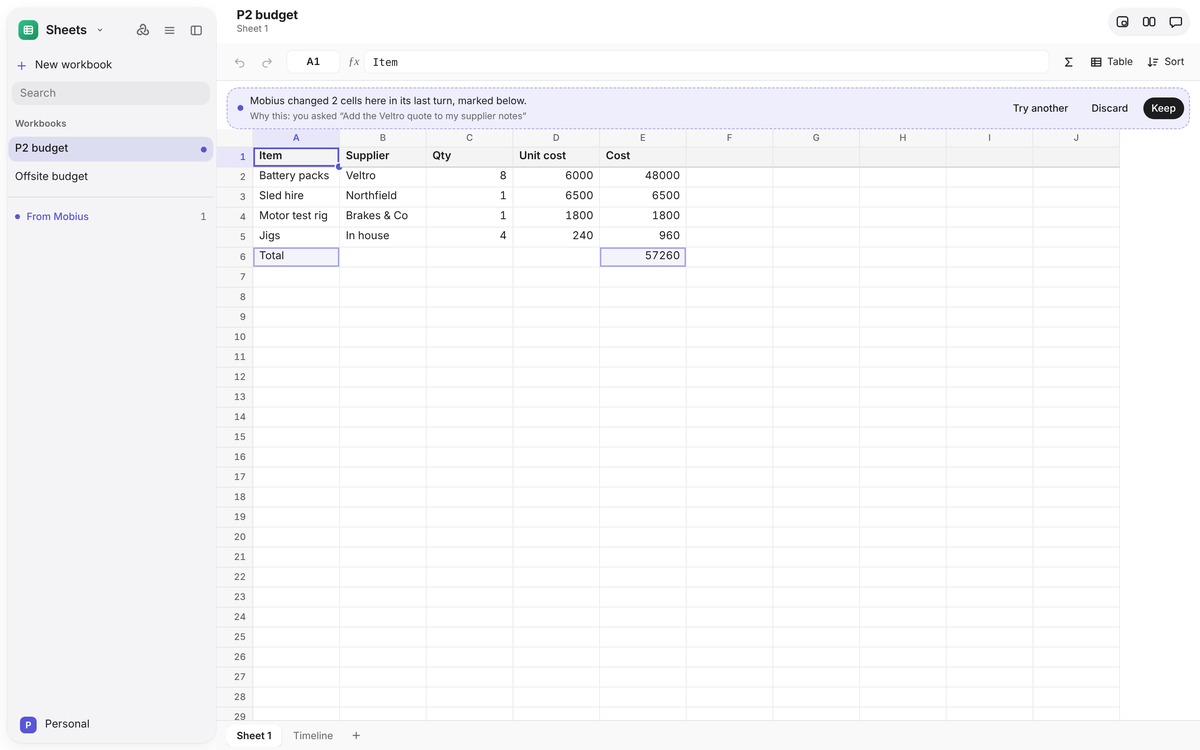
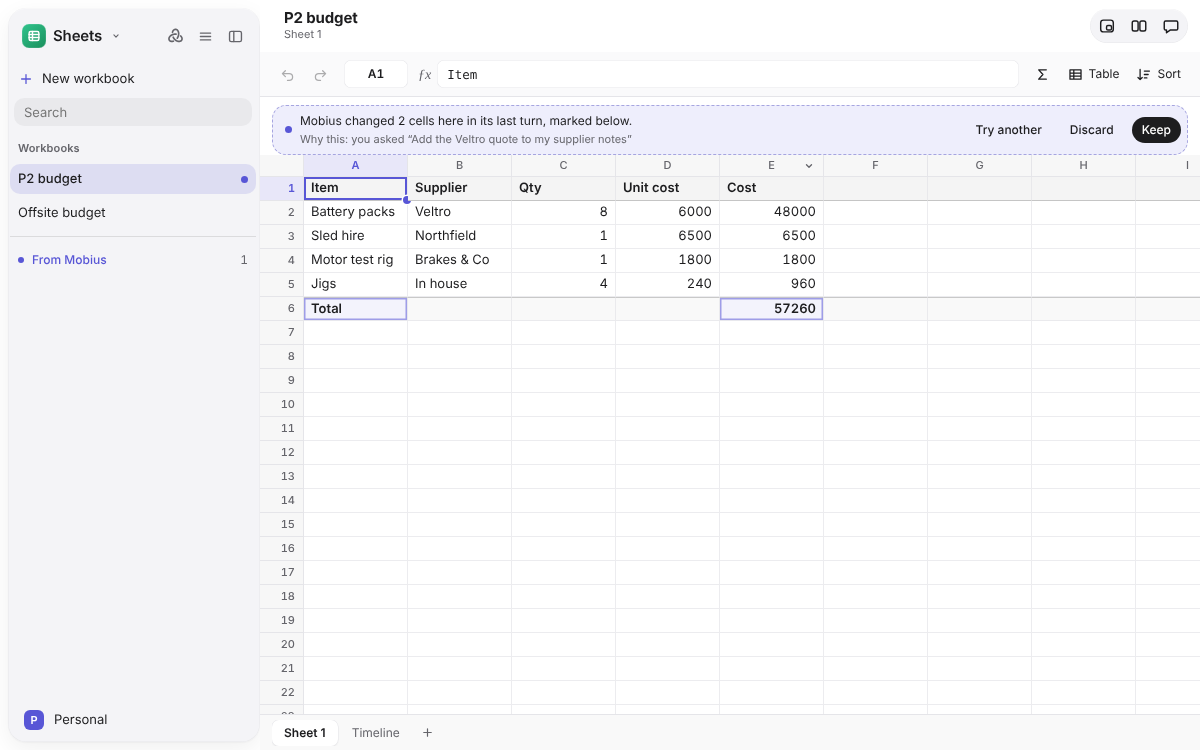
Sheets: column menu, total row, Find, no stray text selection (#40)
* Sheets: a menu on each column, the total row set apart, and no stray text selection

- Each column letter has a chevron menu: sort A to Z / Z to A, add a column
  before or after, fit to contents, delete. Sorting a whole column keeps the
  header and total rows in place.
- A last row that sums the rows above is bold with a rule above it.
- Shift-click and drag over cells no longer paint the cell text as a page
  selection.
- Picking a whole row or column keeps the focus on its first cell, so the
  view no longer jumps to the end.
- e2e, README screenshot and docs updated.

Claude-Session: https://claude.ai/code/session_01VRGwo5cg4dWJLUoVTjc5V1

* Sheets: Find in the sheet with Ctrl+F

A find bar under the toolbar tints every matching cell (what it shows, or
the words of its formula), moves the selection with Enter / Shift+Enter or
the arrows, and closes with Escape or Done.

Claude-Session: https://claude.ai/code/session_01VRGwo5cg4dWJLUoVTjc5V1

* Sheets: the cell comment e2e waits for the save that keeps it as a note

The comments file is first written while the comment is still open, so
reading it as soon as it exists could see state "open" (failed on PR #40's
Windows run).

Claude-Session: https://claude.ai/code/session_01VRGwo5cg4dWJLUoVTjc5V1

---------

diff --git a/apps/desktop/src/Sheets.tsx b/apps/desktop/src/Sheets.tsx
@@ -6,7 +6,7 @@ import { createPortal } from 'react-dom';
 import type { CellChange } from '@mobius/shared';
 import { onCommand } from './commands';
 import { KEPT_EVENT, keepTurn, keptTurns, turnId } from './ReviewStrip';
-import { cellName, changedCells, closeFormula, hasFooter, columnName, FUNCTIONS, fillSeries, inRange, isError, isNumeric, jump, numberIn, parseCsv, pasted, quickTarget, rangeName, rangeOf, rangeSize, refsIn, selectionStats, shiftFormula, sortedRows, statNumber, toTsv, typingFunction, wantsRef, type Range } from './sheets-view';
+import { cellName, changedCells, closeFormula, hasFooter, columnName, FUNCTIONS, fillSeries, findCells, inRange, isError, isNumeric, jump, numberIn, parseCsv, pasted, quickTarget, rangeName, rangeOf, rangeSize, refsIn, selectionStats, shiftFormula, sortedRows, statNumber, toTsv, typingFunction, wantsRef, type Range } from './sheets-view';
 import './sheets.css';
 import type { SheetsState } from './useSheets';
 import { ReviewActions, WhyThis } from './ReviewBar';
@@ -205,6 +205,11 @@ export function SheetGrid({ sheets, review }: { sheets: SheetsState; review?: { 
   const [pick, setPick] = useState<{ start: number; end: number; from: Pos } | null>(null);
   const [fillTo, setFillTo] = useState<Pos | null>(null);
   const [menu, setMenu] = useState<{ x: number; y: number } | null>(null);
+  // A column's own menu, from the chevron on its letter, as in Numbers.
+  const [colMenu, setColMenu] = useState<{ c: number; x: number; y: number } | null>(null);
+  // Find in the sheet (Ctrl+F): what is looked for, and which match is current.
+  const [finding, setFinding] = useState<{ query: string; at: number } | null>(null);
+  const findInput = useRef<HTMLInputElement>(null);
   const [suggest, setSuggest] = useState(0);
   const [, setTick] = useState(0);
   const drag = useRef<'select' | 'ref' | 'fill' | null>(null);
@@ -226,7 +231,7 @@ export function SheetGrid({ sheets, review }: { sheets: SheetsState; review?: { 
   const shown = (r: number, c: number) => data?.values[r]?.[c] ?? '';
   const sel = rangeOf(anchor, focus);
   const select = (a: Pos, b: Pos = a) => { setAnchor(a); setFocus(b); };
-  useEffect(() => { select({ r: 0, c: 0 }); setEdit(null); setPick(null); }, [data?.workbook, data?.sheet]);
+  useEffect(() => { select({ r: 0, c: 0 }); setEdit(null); setPick(null); setFinding((f) => (f ? { ...f, at: 0 } : f)); }, [data?.workbook, data?.sheet]);
   useEffect(() => { if (edit?.where === 'cell') cellInput.current?.focus(); }, [edit?.where, edit?.at.r, edit?.at.c]); // eslint-disable-line react-hooks/exhaustive-deps
   // After a reference or a function is put in, the caret goes after it.
   useLayoutEffect(() => {
@@ -235,7 +240,7 @@ export function SheetGrid({ sheets, review }: { sheets: SheetsState; review?: { 
     input?.setSelectionRange(caretTo.current, caretTo.current);
     caretTo.current = null;
   });
-  // The cell that moves stays in view.
+  // The cell that moves stays in view. Picking a whole row or column keeps the focus on its first cell, so the view stays put.
   useEffect(() => { grid.current?.querySelector<HTMLElement>(`[data-cell="${focus.r}:${focus.c}"]`)?.scrollIntoView({ block: 'nearest', inline: 'nearest' }); }, [focus]);
   useEffect(() => {
     const up = () => {
@@ -302,6 +307,8 @@ export function SheetGrid({ sheets, review }: { sheets: SheetsState; review?: { 
   const width = Math.min(52, Math.max(10, used.cols + 3, focus.c + 2, fillTo ? fillTo.c + 2 : 0));
   const height = Math.max(40, used.rows + 20, focus.r + 10, fillTo ? fillTo.r + 5 : 0);
   const headerOn = header ?? looksLikeHeader(data.values);
+  // A last row that adds up the rows above reads as the table's total, set apart as in Numbers.
+  const footerAt = hasFooter(data.cells) ? used.rows - 1 : -1;
   // A column the person has not sized fits its words, so names and labels are not cut short.
   const fitted = fittedWidths(data.values, headerOn);
   const colWidth = (c: number) => widths[c] ?? fitted[c] ?? COL_W;
@@ -481,7 +488,9 @@ export function SheetGrid({ sheets, review }: { sheets: SheetsState; review?: { 
     const r0 = headerOn ? 1 : 0;
     const r1 = Math.max(r0, used.rows - (hasFooter(data.cells) ? 2 : 1));
     // A block of rows picked sorts just those; otherwise every row under the header.
-    const rows = rangeSize(sel) > 1 && sel.r1 > sel.r0 ? { r0: Math.max(sel.r0, r0), r1: sel.r1 } : { r0, r1 };
+    // A whole column picked (from its letter) sorts every row, keeping the header and the total row where they are.
+    const block = rangeSize(sel) > 1 && sel.r1 > sel.r0 && !(sel.r0 <= r0 && sel.r1 >= r1);
+    const rows = block ? { r0: Math.max(sel.r0, r0), r1: Math.min(sel.r1, r1) } : { r0, r1 };
     void apply(sortedRows(data.cells, data.values, rows.r0, rows.r1, col, ascending));
   };
   const quick = (fn: string) => {
@@ -515,6 +524,21 @@ export function SheetGrid({ sheets, review }: { sheets: SheetsState; review?: { 
     window.addEventListener('pointerup', up);
   };
 
+  // ---------- Find ----------
+  const matches = finding ? findCells(data.cells, data.values, finding.query) : [];
+  const matchKeys = new Set(matches.map((m) => `${m.r}:${m.c}`));
+  const openFind = () => {
+    setFinding((f) => f ?? { query: '', at: 0 });
+    requestAnimationFrame(() => { findInput.current?.focus(); findInput.current?.select(); });
+  };
+  const goMatch = (at: number) => {
+    if (!finding || matches.length === 0) return;
+    const i = ((at % matches.length) + matches.length) % matches.length;
+    setFinding({ ...finding, at: i });
+    select(matches[i]!);
+  };
+  const closeFind = () => { setFinding(null); grid.current?.focus(); };
+
   const onGridKey = (e: KeyboardEvent<HTMLDivElement>) => {
     const mod = e.ctrlKey || e.metaKey;
     // Keys typed before the cell's editor has focus still go into it.
@@ -523,6 +547,7 @@ export function SheetGrid({ sheets, review }: { sheets: SheetsState; review?: { 
       return;
     }
     const k = e.key;
+    if (mod && !e.altKey && !e.shiftKey && k.toLowerCase() === 'f') { openFind(); e.preventDefault(); e.stopPropagation(); return; }
     const arrows: Record<string, [number, number]> = { ArrowUp: [-1, 0], ArrowDown: [1, 0], ArrowLeft: [0, -1], ArrowRight: [0, 1] };
     const go = (p: Pos) => { const q = { r: Math.max(0, Math.min(height + 200, p.r)), c: Math.max(0, Math.min(51, p.c)) }; if (e.shiftKey) setFocus(q); else select(q); };
     if (arrows[k]) {
@@ -603,6 +628,35 @@ export function SheetGrid({ sheets, review }: { sheets: SheetsState; review?: { 
           <ToolMenu label="Sort" title="Sort the rows" button={<><Icon d={ICONS.sort} /><span>Sort</span></>}>{sortMenu}</ToolMenu>
         </span>
       </div>
+      {finding && (
+        <div className="sheet-find" role="search" aria-label="Find in sheet">
+          <svg className="sheet-find-icon" viewBox="0 0 20 20" aria-hidden="true"><path d="M8.5 3.5a5 5 0 1 1 0 10 5 5 0 0 1 0-10zM12.2 12.2 16.5 16.5" /></svg>
+          <input
+            ref={findInput}
+            type="search"
+            aria-label="Find in sheet"
+            placeholder="Find in sheet"
+            value={finding.query}
+            spellCheck={false}
+            onChange={(e) => {
+              const query = e.target.value;
+              const found = findCells(data.cells, data.values, query);
+              setFinding({ query, at: 0 });
+              if (found[0]) select(found[0]);
+            }}
+            onKeyDown={(e) => {
+              if (e.key === 'Enter') { goMatch(finding.at + (e.shiftKey ? -1 : 1)); e.preventDefault(); }
+              else if (e.key === 'Escape') { closeFind(); e.preventDefault(); }
+            }}
+          />
+          <span className="sheet-find-count" role="status" aria-live="polite">{finding.query.trim() ? (matches.length ? `${Math.min(finding.at, matches.length - 1) + 1} of ${matches.length}` : 'Not found') : ''}</span>
+          <span className="sheet-tool-group">
+            <button type="button" className="sheet-tool" aria-label="Previous match" title="Previous (Shift+Enter)" disabled={matches.length === 0} onMouseDown={keep} onClick={() => goMatch(finding.at - 1)}><Icon d="M12.5 5 7.5 10l5 5" /></button>
+            <button type="button" className="sheet-tool" aria-label="Next match" title="Next (Enter)" disabled={matches.length === 0} onMouseDown={keep} onClick={() => goMatch(finding.at + 1)}><Icon d="M7.5 5l5 5-5 5" /></button>
+          </span>
+          <button type="button" className="btn sheet-find-done" onClick={closeFind}>Done</button>
+        </div>
+      )}
       {showReview && (
         <div className="note-review sheet-review" role="status">
           <span className="review-dot" aria-hidden="true" />
@@ -641,9 +695,27 @@ export function SheetGrid({ sheets, review }: { sheets: SheetsState; review?: { 
                   scope="col"
                   style={{ width: colWidth(c) }}
                   data-on={(c >= sel.c0 && c <= sel.c1) || undefined}
-                  onMouseDown={(e) => { if (e.button !== 0) return; e.preventDefault(); grid.current?.focus(); const end = Math.max(used.rows - 1, height - 1); if (e.shiftKey) { setAnchor({ r: 0, c: anchor.c }); setFocus({ r: end, c }); } else select({ r: 0, c }, { r: end, c }); }}
+                  data-menu={colMenu?.c === c || undefined}
+                  onMouseDown={(e) => { if (e.button !== 0) return; e.preventDefault(); grid.current?.focus(); const end = Math.max(used.rows - 1, height - 1); if (e.shiftKey) { setAnchor({ r: end, c: anchor.c }); setFocus({ r: 0, c }); } else select({ r: end, c }, { r: 0, c }); }}
                 >
                   {columnName(c)}
+                  <button
+                    type="button"
+                    className="sheet-col-more"
+                    aria-label={`Column ${columnName(c)} options`}
+                    aria-haspopup="menu"
+                    aria-expanded={colMenu?.c === c}
+                    tabIndex={-1}
+                    onMouseDown={(e) => { e.preventDefault(); e.stopPropagation(); }}
+                    onClick={(e) => {
+                      grid.current?.focus();
+                      select({ r: Math.max(used.rows - 1, height - 1), c }, { r: 0, c });
+                      const r = e.currentTarget.getBoundingClientRect();
+                      setColMenu({ c, x: r.left, y: r.bottom + 4 });
+                    }}
+                  >
+                    <svg viewBox="0 0 12 12" aria-hidden="true"><path d="M3 4.5 6 7.5l3-3" /></svg>
+                  </button>
                   <span className="sheet-col-resize" role="separator" aria-orientation="vertical" aria-label={`Width of column ${columnName(c)}`} onPointerDown={(e) => resizeFrom(c, e)} onDoubleClick={() => fitColumn(c)} onMouseDown={(e) => e.stopPropagation()} />
                 </th>
               ))}
@@ -651,11 +723,11 @@ export function SheetGrid({ sheets, review }: { sheets: SheetsState; review?: { 
           </thead>
           <tbody>
             {Array.from({ length: height }, (_, r) => (
-              <tr key={r} className={headerOn && r === 0 ? 'sheet-header-row' : undefined}>
+              <tr key={r} className={headerOn && r === 0 ? 'sheet-header-row' : r === footerAt && r > 0 ? 'sheet-footer-row' : undefined}>
                 <th
                   scope="row"
                   data-on={(r >= sel.r0 && r <= sel.r1) || undefined}
-                  onMouseDown={(e) => { if (e.button !== 0) return; e.preventDefault(); grid.current?.focus(); const end = Math.max(width - 1, used.cols - 1); if (e.shiftKey) { setAnchor({ r: anchor.r, c: 0 }); setFocus({ r, c: end }); } else select({ r, c: 0 }, { r, c: end }); }}
+                  onMouseDown={(e) => { if (e.button !== 0) return; e.preventDefault(); grid.current?.focus(); const end = Math.max(width - 1, used.cols - 1); if (e.shiftKey) { setAnchor({ r: anchor.r, c: end }); setFocus({ r, c: 0 }); } else select({ r, c: end }, { r, c: 0 }); }}
                 >{r + 1}</th>
                 {Array.from({ length: width }, (_, c) => {
                   const here = edit && edit.at.r === r && edit.at.c === c && edit.where === 'cell';
@@ -686,6 +758,7 @@ export function SheetGrid({ sheets, review }: { sheets: SheetsState; review?: { 
                       data-formula={raw(r, c).startsWith('=') || undefined}
                       data-changed={showReview && changed.has(key) ? true : undefined}
                       data-fresh={sheets.fresh.has(key) || undefined}
+                      data-match={matchKeys.has(key) || undefined}
                       title={raw(r, c).startsWith('=') ? raw(r, c) : undefined}
                       style={shadows.length ? { boxShadow: shadows.join(', ') } : undefined}
                       onMouseDown={(e) => {
@@ -746,6 +819,22 @@ export function SheetGrid({ sheets, review }: { sheets: SheetsState; review?: { 
             {tableMenu(() => setMenu(null))}
             <Sep />
             {sortMenu(() => setMenu(null))}
+          </div>
+        </>,
+        document.body,
+      )}
+      {colMenu && createPortal(
+        <>
+          <div className="sheet-scrim" onMouseDown={() => setColMenu(null)} onContextMenu={(e) => { e.preventDefault(); setColMenu(null); }} />
+          <div className="sheet-menu" role="menu" aria-label={`Column ${columnName(colMenu.c)}`} style={{ top: Math.min(colMenu.y, window.innerHeight - 260), left: Math.max(8, Math.min(colMenu.x, window.innerWidth - 230)), minWidth: 220 }} onKeyDown={(e) => { if (e.key === 'Escape') { setColMenu(null); grid.current?.focus(); } }}>
+            <Item onPick={() => { const c = colMenu.c; setColMenu(null); sortBy(c, true); }}>Sort A to Z</Item>
+            <Item onPick={() => { const c = colMenu.c; setColMenu(null); sortBy(c, false); }}>Sort Z to A</Item>
+            <Sep />
+            <Item onPick={() => { const c = colMenu.c; setColMenu(null); void shiftAt('column', c, true); }}>Add column before</Item>
+            <Item onPick={() => { const c = colMenu.c; setColMenu(null); void shiftAt('column', c + 1, true); }}>Add column after</Item>
+            <Item onPick={() => { const c = colMenu.c; setColMenu(null); fitColumn(c); }}>Fit to contents</Item>
+            <Sep />
+            <Item danger onPick={() => { const c = colMenu.c; setColMenu(null); void shiftAt('column', c, false); }}>Delete column</Item>
           </div>
         </>,
         document.body,

diff --git a/apps/desktop/src/sheets.css b/apps/desktop/src/sheets.css
@@ -26,11 +26,18 @@
 .sheet-page .sheet-table tbody th { z-index: 2; cursor: default; }
 .sheet-page .sheet-table th[data-on] { background: color-mix(in srgb, var(--accent) 14%, var(--bg)); color: var(--accent); font-weight: 600; }
 .sheet-corner { cursor: default; }
+.sheet-col-more { position: absolute; top: 3px; right: 6px; width: 16px; height: 16px; display: grid; place-items: center; padding: 0; border: 0; border-radius: 4px; background: transparent; color: inherit; opacity: 0; cursor: default; transition: opacity var(--dur-fast) var(--ease); }
+.sheet-col-more svg { width: 10px; height: 10px; fill: none; stroke: currentColor; stroke-width: 1.6; stroke-linecap: round; stroke-linejoin: round; }
+.sheet-page .sheet-table thead th:hover .sheet-col-more, .sheet-col-more:focus-visible, .sheet-page .sheet-table thead th[data-menu] .sheet-col-more { opacity: 1; }
+.sheet-col-more:hover, .sheet-page .sheet-table thead th[data-menu] .sheet-col-more { background: color-mix(in srgb, currentColor 16%, transparent); }
 .sheet-col-resize { position: absolute; top: 0; right: -3px; bottom: 0; width: 7px; cursor: col-resize; z-index: 1; }
 .sheet-col-resize:hover { background: linear-gradient(to right, transparent 3px, var(--accent) 3px, var(--accent) 4px, transparent 4px); }
 .sheet-page .sheet-table td { max-width: none; height: 24px; padding: 0 7px; border-right: 0.5px solid color-mix(in srgb, var(--line) 75%, transparent); border-bottom: 0.5px solid color-mix(in srgb, var(--line) 75%, transparent); outline: none; overflow: visible; text-overflow: clip; }
 .sheet-page .sheet-table td { overflow: hidden; text-overflow: ellipsis; }
 .sheet-page .sheet-table td[aria-selected="true"] { outline: none; }
+/* Picking cells selects cells, not the words in them: dragging or Shift-clicking never paints page text. */
+.sheet-page .sheet-table td { user-select: none; -webkit-user-select: none; }
+.sheet-page .sheet-cell-input { user-select: text; -webkit-user-select: text; }
 .sheet-page .sheet-table td[data-in] { background: color-mix(in srgb, var(--accent) 11%, var(--bg)); }
 .sheet-page .sheet-table td[data-focus] { z-index: 1; }
 .sheet-page .sheet-table td[data-formula]:not([data-error]) { color: var(--ink); }
@@ -53,6 +60,21 @@
 .sheet-page .sheet-header-row td { background: color-mix(in srgb, var(--ink) 5%, var(--bg)); font-weight: 600; border-bottom: 1px solid color-mix(in srgb, var(--ink) 22%, transparent); }
 .sheet-page .sheet-header-row td[data-in] { background: color-mix(in srgb, var(--accent) 16%, var(--bg)); }
 .sheet-page .sheet-table .sheet-header-row th { z-index: 3; }
+
+/* A total row: bold, with a rule above it, as Numbers sets a footer row apart. */
+.sheet-page .sheet-footer-row td { font-weight: 600; border-top: 1px solid color-mix(in srgb, var(--ink) 22%, transparent); background: color-mix(in srgb, var(--ink) 2.5%, var(--bg)); }
+.sheet-page .sheet-footer-row td[data-in] { background: color-mix(in srgb, var(--accent) 14%, var(--bg)); }
+
+/* ---------- Find ---------- */
+.sheet-find { display: flex; align-items: center; gap: 8px; padding: 6px var(--sp-3); border-bottom: 0.5px solid var(--line); background: color-mix(in srgb, var(--ink) 2%, var(--bg)); animation: sheet-pop var(--dur-fast) var(--ease); }
+.sheet-find-icon { width: 15px; height: 15px; flex: none; fill: none; stroke: var(--muted); stroke-width: 1.6; stroke-linecap: round; }
+.sheet-find input { flex: 0 1 320px; min-width: 120px; height: 26px; padding: 0 9px; border: 0; border-radius: 7px; background: var(--bg); box-shadow: inset 0 0 0 0.5px var(--line); color: var(--ink); font: inherit; font-size: var(--fs-sm); outline: none; }
+.sheet-find input:focus { box-shadow: inset 0 0 0 1px var(--accent), 0 0 0 3px color-mix(in srgb, var(--accent) 22%, transparent); }
+.sheet-find-count { min-width: 64px; color: var(--muted); font-size: var(--fs-sm); font-variant-numeric: tabular-nums; white-space: nowrap; }
+.sheet-find-done { margin-left: auto; height: 26px; padding: 0 12px; }
+/* Cells that match what is looked for are tinted yellow, as a find highlights words on a page. */
+.sheet-page .sheet-table td[data-match] { background: color-mix(in srgb, #ffd60a 30%, var(--bg)); }
+.sheet-page .sheet-table td[data-match][data-focus] { background: color-mix(in srgb, #ffd60a 55%, var(--bg)); }
 
 /* ---------- Menus and the function list ---------- */
 .sheet-scrim { position: fixed; inset: 0; z-index: 900; }
@@ -98,6 +120,6 @@
 .sheet-empty-icon svg { width: 26px; height: 26px; fill: none; stroke: currentColor; stroke-width: 1.5; }
 
 @media print {
-  .sheet-toolbar, .sheet-foot, .sheet-fill { display: none; }
+  .sheet-toolbar, .sheet-find, .sheet-foot, .sheet-fill { display: none; }
   .sheet-page .sheet-scroll { overflow: visible; }
 }

diff --git a/apps/desktop/e2e/sheets.spec.ts b/apps/desktop/e2e/sheets.spec.ts
@@ -154,5 +154,29 @@ test('pick a block, fill it down, undo, sort from the menu, and build a formula 
   await expect(cell('A5')).toHaveText('Total');
   await expect(cell('D5')).toHaveText('5420');
   await expect.poll(() => fs.readFileSync(file('Budget'), 'utf8')).toBe('Item,Qty,Unit,Total\nLunch,=People!B1,40,=B2*C2\nTerrace venue,1,620,=B3*C3\nHotel,14,320,=B4*C4,"=ROUND(D4/14,0)"\nTotal,,,=SUM(D2:D4)\n');
+
+  // Sorted again from column B's own menu, largest first: the whole column picked still leaves the header and total row put.
+  await shell().getByRole('columnheader', { name: /^B/ }).hover();
+  await shell().getByRole('button', { name: 'Column B options' }).click();
+  await shell().getByRole('menu', { name: 'Column B' }).getByRole('menuitem', { name: 'Sort Z to A' }).click();
+  await expect(cell('A2')).toHaveText('Hotel');
+  await expect(cell('A4')).toHaveText('Terrace venue');
+  await expect(cell('A5')).toHaveText('Total');
+  await expect(shell().getByLabel('Selected cell')).toHaveText(/^B1:B\d+$/);
+  // The total row reads as one, set apart from the rows it adds up.
+  await expect(shell().locator('tr.sheet-footer-row')).toContainText('Total');
+
+  // Ctrl+F finds cells by what they show, moving the selection from match to match; Escape closes it.
+  await cell('A2').click();
+  await shell().keyboard.press('Control+f');
+  await shell().getByRole('searchbox', { name: 'Find in sheet' }).fill('e');
+  await expect(shell().getByRole('search', { name: 'Find in sheet' })).toContainText(/1 of \d+/);
+  const first = await shell().getByLabel('Selected cell').textContent();
+  await shell().keyboard.press('Enter');
+  await expect(shell().getByLabel('Selected cell')).not.toHaveText(first ?? '');
+  await shell().getByRole('searchbox', { name: 'Find in sheet' }).fill('Terrace');
+  await expect(shell().getByLabel('Selected cell')).toHaveText('A4');
+  await shell().keyboard.press('Escape');
+  await expect(shell().getByRole('search', { name: 'Find in sheet' })).toHaveCount(0);
   await expect(cell('A1')).toHaveText('Item');
 });

diff --git a/apps/desktop/src/sheets-view.ts b/apps/desktop/src/sheets-view.ts
@@ -306,3 +306,23 @@ export function hasFooter(cells: readonly (readonly string[])[]): boolean {
   const last = cells[cells.length - 1] ?? [];
   return cells.length > 2 && last.some((t) => t.startsWith('=') && /[A-Za-z]+\d+:[A-Za-z]+\d+/.test(t));
 }
+
+/**
+ * Every cell that holds the words looked for, row by row as a person reads: what the cell shows, or the formula behind
+ * it, matched without regard to case.
+ */
+export function findCells(cells: readonly (readonly string[])[], values: readonly (readonly string[])[], query: string): { r: number; c: number }[] {
+  const q = query.trim().toLowerCase();
+  if (!q) return [];
+  const out: { r: number; c: number }[] = [];
+  const rows = Math.max(cells.length, values.length);
+  for (let r = 0; r < rows; r++) {
+    const cols = Math.max(cells[r]?.length ?? 0, values[r]?.length ?? 0);
+    for (let c = 0; c < cols; c++) {
+      const shown = (values[r]?.[c] ?? '').toLowerCase();
+      const raw = (cells[r]?.[c] ?? '').toLowerCase();
+      if (shown.includes(q) || (raw.startsWith('=') && raw.includes(q))) out.push({ r, c });
+    }
+  }
+  return out;
+}

diff --git a/apps/desktop/src/sheets-find.test.ts b/apps/desktop/src/sheets-find.test.ts
@@ -1,0 +1,15 @@
+import { describe, expect, it } from 'vitest';
+import { findCells } from './sheets-view';
+
+describe('finding in a sheet', () => {
+  const cells = [['Item', 'Cost'], ['Battery packs', '=B3*2'], ['Sled hire', '6500'], ['Total', '=SUM(B2:B3)']];
+  const values = [['Item', 'Cost'], ['Battery packs', '13000'], ['Sled hire', '6500'], ['Total', '19500']];
+  it('finds what cells show, in reading order, whatever the case', () => {
+    expect(findCells(cells, values, 'S')).toEqual([{ r: 0, c: 1 }, { r: 1, c: 0 }, { r: 2, c: 0 }, { r: 3, c: 1 }]);
+    expect(findCells(cells, values, '6500')).toEqual([{ r: 2, c: 1 }]);
+  });
+  it('finds words in a formula, and nothing for an empty search', () => {
+    expect(findCells(cells, values, 'sum(')).toEqual([{ r: 3, c: 1 }]);
+    expect(findCells(cells, values, '  ')).toEqual([]);
+  });
+});

diff --git a/apps/desktop/e2e/comments.spec.ts b/apps/desktop/e2e/comments.spec.ts
@@ -67,7 +67,9 @@ test('a comment on a sheet cell is pinned there and can be kept as a note, for p
 
   // Kept per document in the workspace's dot folder, with what it is on.
   const kept = path.join(userData, 'workspace', '.comments', 'sheets', 'Offsite budget~Budget.json');
-  await expect.poll(() => fs.existsSync(kept)).toBe(true);
+  // The file is first written when the comment is made (still open), so wait for the save that keeps it as a note.
+  const read = () => { try { return JSON.parse(fs.readFileSync(kept, 'utf8'))[0]?.state; } catch { return undefined; } };
+  await expect.poll(read).toBe('note');
   const saved = JSON.parse(fs.readFileSync(kept, 'utf8'));
   expect(saved[0]).toMatchObject({ doc: 'Offsite budget/Budget', anchor: { id: 'C2' }, state: 'note', text: 'Is the rate per night?', context: '320' });
 

diff --git a/docs/apps/write-and-plan.md b/docs/apps/write-and-plan.md
@@ -90,7 +90,11 @@ Spreadsheets with formulas.
 
 - Type in the cell or the formula bar. Formulas such as `=SUM(B2:B4)`, `=D2/People!B1` and `=IF(A1>0,"yes","no")` work
   across sheets, with a hint for the function you are in.
-- Columns size themselves to fit, and a first row of words over numbers reads as a header.
+- Columns size themselves to fit, and a first row of words over numbers reads as a header. A last row that adds up
+  the rows above reads as the total, in bold with a rule above it.
+- Each column letter has a menu (hover it for the chevron) to sort by that column, add or delete columns and fit the
+  width. Sorting keeps the header and total rows where they are.
+- **Find** with Ctrl+F: matching cells are tinted, and Enter (or Shift+Enter) moves from one to the next.
 - Sheets are tabs below the grid. Insert and remove rows and columns; Ctrl+Z undoes any step.
 
 **Kept in:** `workspace/sheets/`, each workbook a folder and each sheet a CSV file that any spreadsheet app can open.
